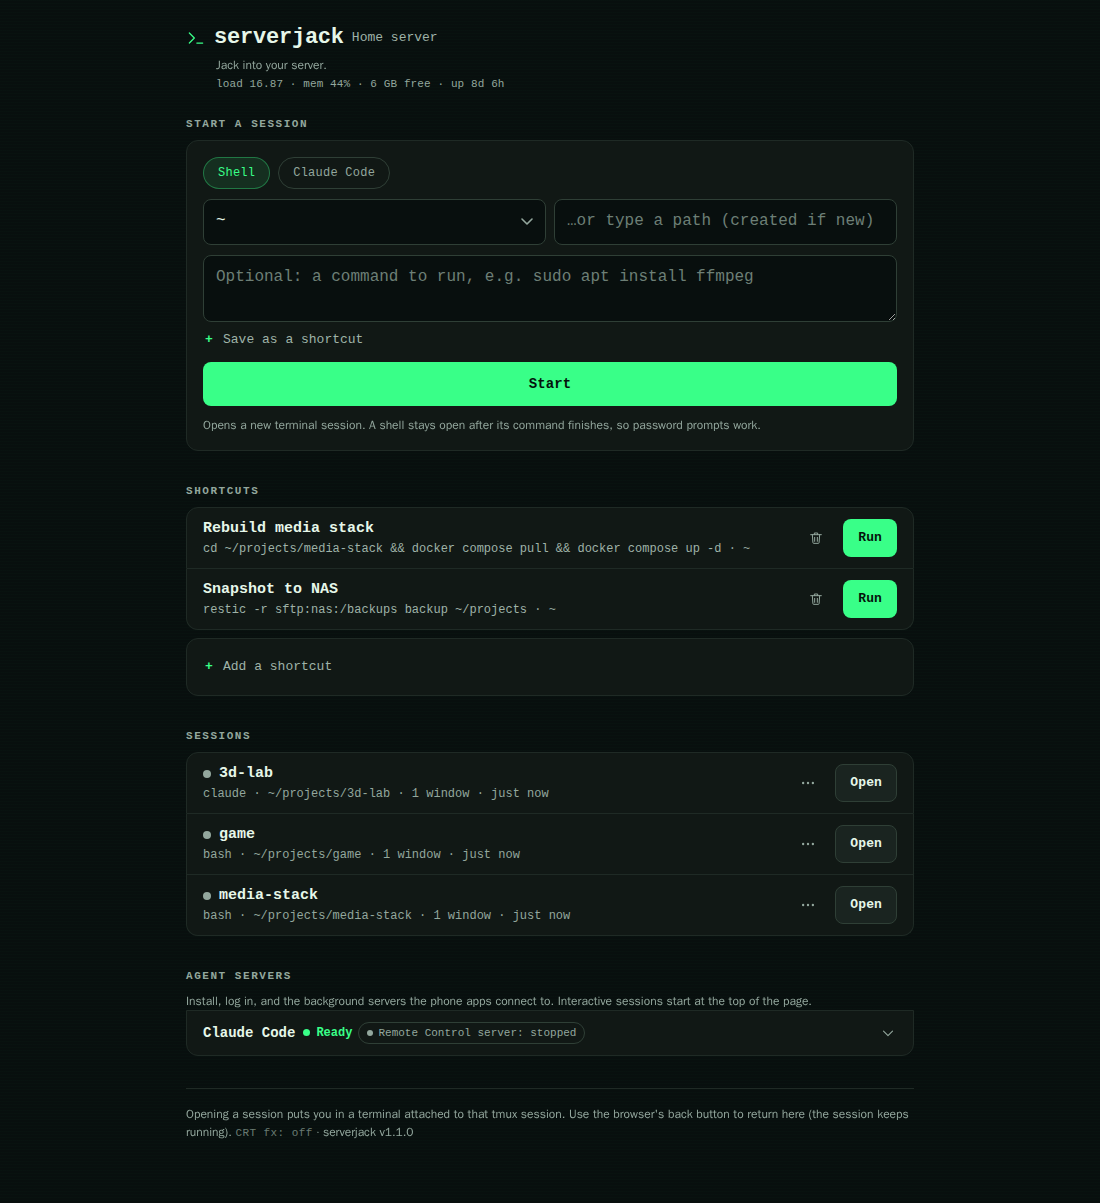
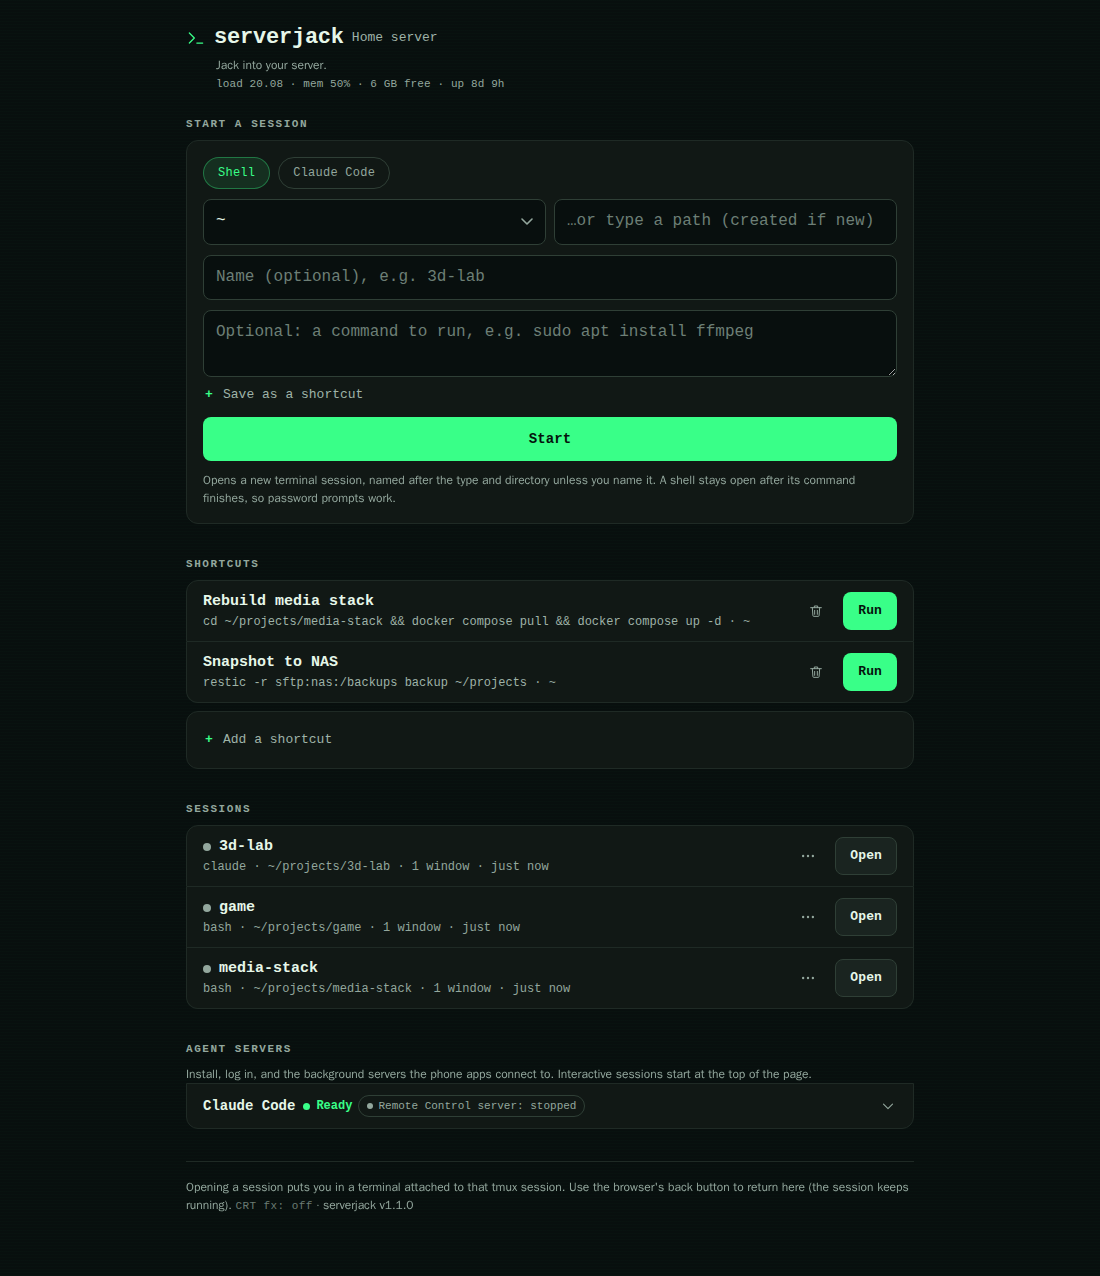
Optional session name everywhere, defaulting to "<type>-<directory>"
Every way of creating a session (the Start card, the terminal page's
new-session form, shortcuts, the compatibility routes) accepts a name and
none requires one. Left blank, the session is named after its type and
directory: the tool id for an agent, the command's first real word (sudo,
env, nohup, nice and time skipped) for a command, "shell" otherwise, with
the directory's basename appended unless it is ~. So claude in
~/projects/game is "claude-game", "sudo apt install ffmpeg" in ~ is "apt".

Claude-Session: https://claude.ai/code/session_01Rg9cTr1k5QLeyAdhx7eYp5

diff --git a/tests/pwland.py b/tests/pwland.py
@@ -125,6 +125,8 @@ with sync_playwright() as p:
     MADE.append(run_sess)
     ok("Start lands on the terminal page for a new session",
        bool(run_sess) and exists(run_sess), f"url={page.url}")
+    ok("...named for the command's first word (no name typed, ~ has no directory part)",
+       bool(re.fullmatch(r"echo(-\d+)?", run_sess or "")), f"run_sess={run_sess}")
     out = wait_for(lambda: pane(run_sess) if "[exited with status" in pane(run_sess) else "")
     ok("the pasted command ran in that session", f"LAND_{TAG}" in out, out[-300:])
     ok("...and the login shell reports its exit status",
@@ -139,6 +141,52 @@ with sync_playwright() as p:
     ok("empty command + Start opens a plain shell session",
        bool(re.fullmatch(r"shell(-\d+)?", shell_sess or "")) and exists(shell_sess),
        f"url={page.url}")
+
+    # ------------------------------------------------- optional session name ----
+    named_target = f"pwnamed-{TAG}"
+    page.goto(f"{BASE}/")
+    page.fill('#name', named_target)
+    page.click('form[action="/start"] button[type=submit]')
+    page.wait_for_selector("#tabs .tab.on")
+    named_sess = sess_from_url(page)
+    MADE.append(named_sess)
+    ok("a typed name is used verbatim",
+       named_sess == named_target and exists(named_sess), f"url={page.url}")
+
+    # no name, a custom directory: <type>-<basename> (/tmp always exists, no setup needed)
+    page.goto(f"{BASE}/")
+    page.fill('form[action="/start"] input[name=dir_custom]', "/tmp")
+    page.click('form[action="/start"] button[type=submit]')
+    page.wait_for_selector("#tabs .tab.on")
+    dircust_sess = sess_from_url(page)
+    MADE.append(dircust_sess)
+    ok("no name in a custom directory defaults to <type>-<directory>",
+       bool(re.fullmatch(r"shell-tmp(-\d+)?", dircust_sess or "")) and exists(dircust_sess),
+       f"url={page.url}")
+
+    # same, but the fake agent instead of a shell: <tool id>-<basename>
+    page.goto(f"{BASE}/")
+    page.fill('form[action="/start"] input[name=dir_custom]', "/tmp")
+    pick_what(page, "fake")
+    page.click('form[action="/start"] button[type=submit]')
+    page.wait_for_selector("#tabs .tab.on")
+    fakedir_sess = sess_from_url(page)
+    MADE.append(fakedir_sess)
+    ok("no name for an agent in a custom directory defaults to <tool>-<directory>",
+       bool(re.fullmatch(r"fake-tmp(-\d+)?", fakedir_sess or "")) and exists(fakedir_sess),
+       f"url={page.url}")
+
+    # a name already in use is refused, and the rest of the form is kept
+    page.goto(f"{BASE}/")
+    dupcmd = f"echo DUP_{TAG}"
+    page.fill("#cmd", dupcmd)
+    page.fill('#name', run_sess)
+    page.click('form[action="/start"] button[type=submit]')
+    page.wait_for_load_state()
+    dup_err = page.locator(".err").first.inner_text() if page.locator(".err").count() else ""
+    ok("a name already in use re-renders with an error, command box kept",
+       "already exists" in dup_err and page.locator("#cmd").input_value() == dupcmd,
+       dup_err or "no error shown")
 
     # ------------------------------------------------------------ rename ----
     newname = f"landren-{TAG}"

diff --git a/tests/test_unit.py b/tests/test_unit.py
@@ -390,5 +390,57 @@ class ValidateNameTests(unittest.TestCase):
         self.assertEqual(name, "a-plain-name")
 
 
+class DefaultSessionNameTests(unittest.TestCase):
+    """default_session_name(): the "<type>-<directory>" default, from the
+    spec's own examples -- HOME handling, skipping sudo/env/nohup/nice/time
+    to find the real command, sanitizing, and the auto_name() uniqueness
+    suffix (session_exists monkeypatched so no real tmux server is needed)."""
+
+    def setUp(self):
+        self._orig_home = mod.HOME
+        self._orig_exists = mod.session_exists
+        self._existing = set()
+        mod.HOME = "/home/x"
+        mod.session_exists = lambda name: name in self._existing
+
+    def tearDown(self):
+        mod.HOME = self._orig_home
+        mod.session_exists = self._orig_exists
+
+    def test_shell_in_home_has_no_directory_part(self):
+        self.assertEqual(mod.default_session_name("shell", "/home/x"), "shell")
+
+    def test_shell_in_a_subdirectory_adds_it(self):
+        self.assertEqual(
+            mod.default_session_name("shell", "/home/x/projects/3d-lab"), "shell-3d-lab")
+
+    def test_agent_kind_uses_the_tool_id(self):
+        self.assertEqual(
+            mod.default_session_name("claude", "/home/x/projects/game"), "claude-game")
+
+    def test_sudo_is_skipped_for_the_command_word(self):
+        self.assertEqual(
+            mod.default_session_name("shell", "/home/x", "sudo apt install ffmpeg"), "apt")
+
+    def test_sudo_skipped_with_a_directory_too(self):
+        self.assertEqual(
+            mod.default_session_name("shell", "/home/x/src", "sudo apt install ffmpeg"), "apt-src")
+
+    def test_only_wrapper_words_fall_back_to_shell(self):
+        self.assertEqual(mod.default_session_name("shell", "/home/x", "sudo env nohup"), "shell")
+
+    def test_no_command_falls_back_to_shell(self):
+        self.assertEqual(mod.default_session_name("shell", "/home/x"), "shell")
+
+    def test_directory_basename_is_sanitized(self):
+        self.assertEqual(
+            mod.default_session_name("shell", "/home/x/My Dir!"), "shell-my-dir")
+
+    def test_uniqueness_suffix_via_session_exists(self):
+        self._existing.add("apt-src")
+        self.assertEqual(
+            mod.default_session_name("shell", "/home/x/src", "sudo apt install ffmpeg"), "apt-src-2")
+
+
 if __name__ == "__main__":
     unittest.main(verbosity=2)

diff --git a/README.md b/README.md
@@ -113,6 +113,10 @@ Pick **Shell** or an installed agent, a directory (defaults to `~`), and tap
   choice here — those are background processes the phone apps connect to,
   and live in [Agent servers](#agent-servers) below.
 
+Naming the session is optional — leave it blank and it is named for the type
+and directory instead (a shell in `~/projects/3d-lab` becomes `shell-3d-lab`,
+`claude` in `~/projects/game` becomes `claude-game`).
+
 Tick "Save as a shortcut" (only offered with a Shell command) and it becomes
 a one-tap button in the Shortcuts list for next time. Shortcuts live in
 `~/.config/serverjack/shortcuts.json`.

diff --git a/CHANGELOG.md b/CHANGELOG.md
@@ -7,6 +7,15 @@ and this project uses [Semantic Versioning](https://semver.org/).
 
 ## Unreleased
 
+### Added
+
+- Every way to start a session (the Start a session card, the terminal page's
+  "+" popover, `/start`, `/new`/`/api/new`, `/tools/open`, and a run shortcut)
+  now takes an optional name. Left blank, the session is named for its type
+  and directory instead of a bare kind — a shell in `~/projects/3d-lab`
+  becomes `shell-3d-lab`, `sudo apt install ffmpeg` becomes `apt` (or
+  `apt-src` run from `~/src`).
+
 ### Changed
 
 - Landing page: "Run a command" and "New shell" are replaced by one "Start a
